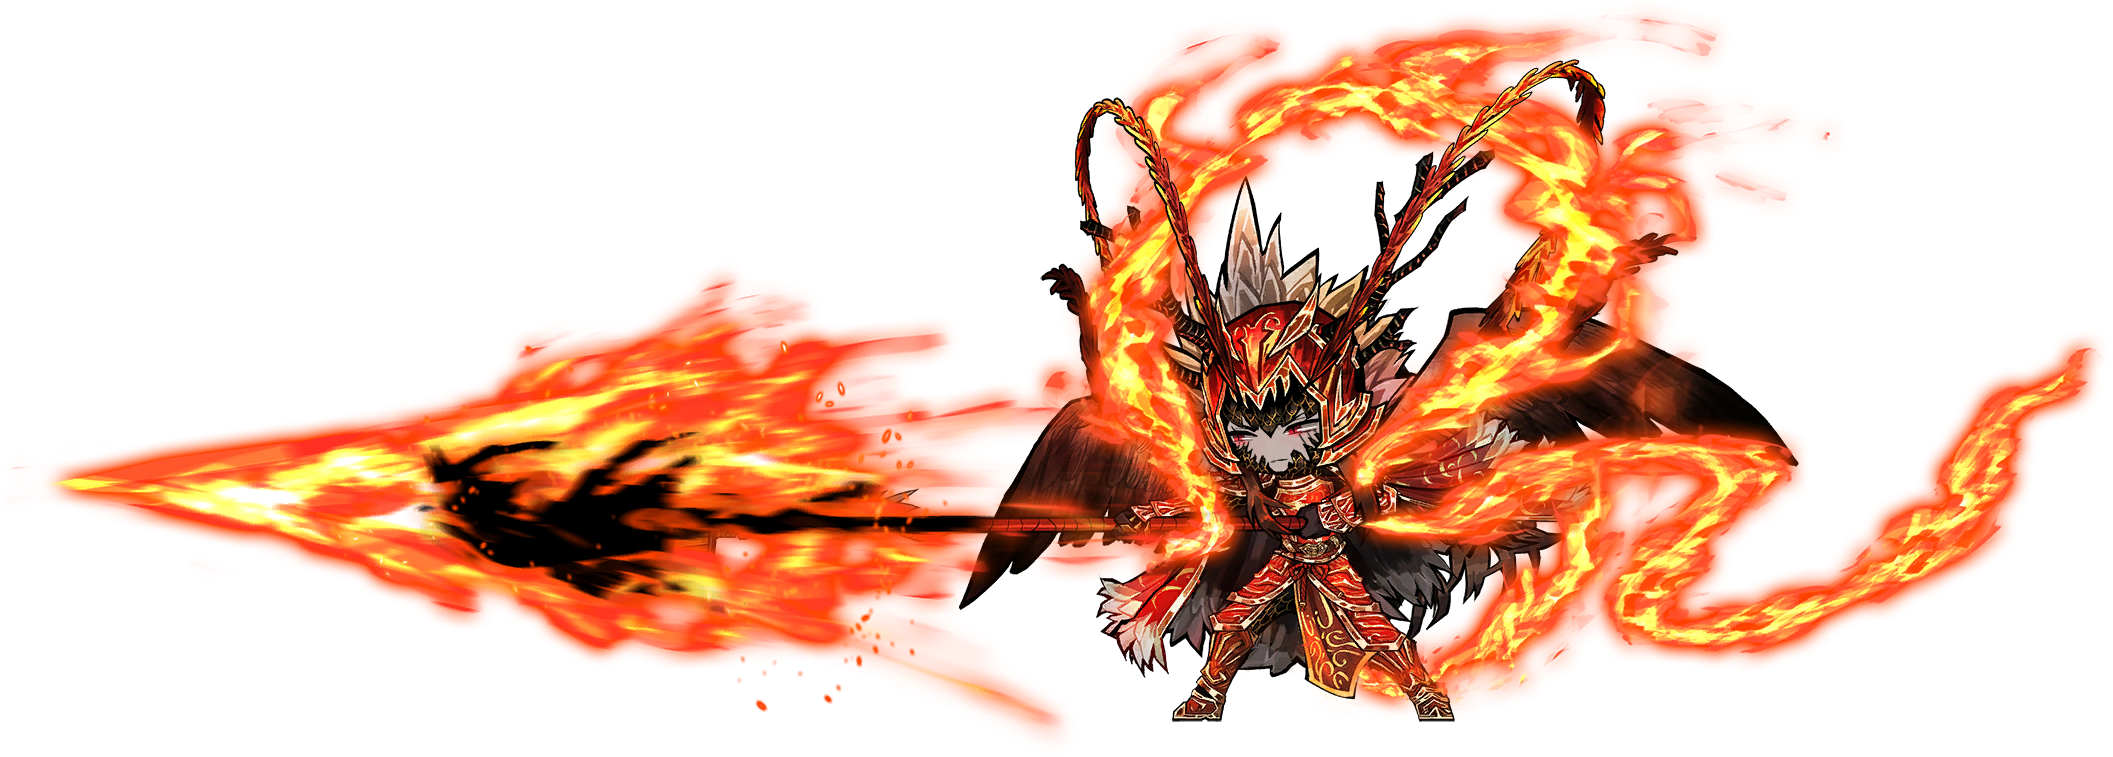
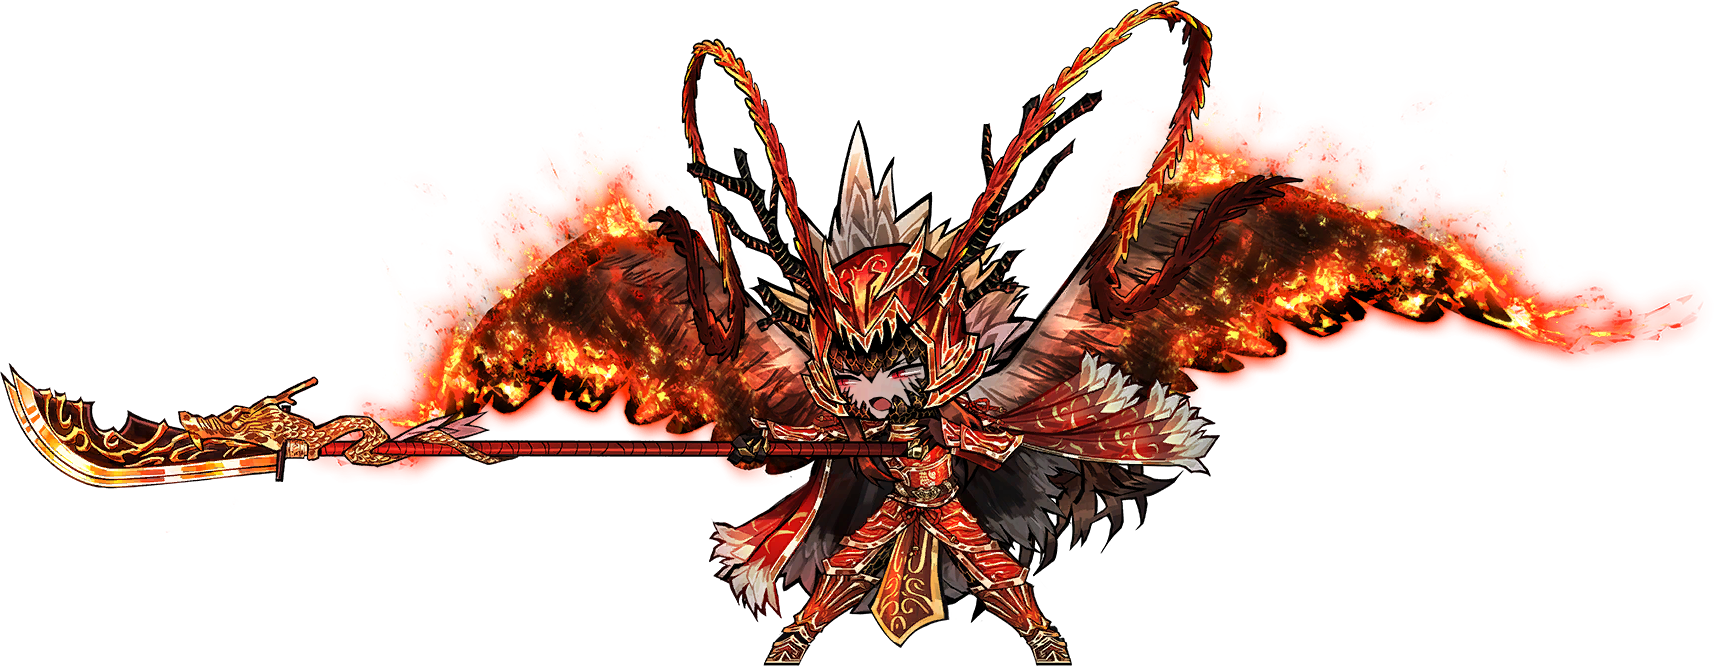
more stuff

diff --git a/src/DrawingManager.java b/src/DrawingManager.java
@@ -7,11 +7,15 @@ import java.io.IOException;
 import javax.imageio.ImageIO;
 
 public class DrawingManager {
-    private BufferedImage player1Base;
+    private BufferedImage player1BaseLeft;
+    private BufferedImage player1BaseRight;
     private BufferedImage player1Left;
     private BufferedImage player1Right;
     private BufferedImage player1Up;
     private BufferedImage p1Attack1Left;
+    private BufferedImage p1Attack1Right;
+    private BufferedImage fireballLeft;
+    private BufferedImage fireballRight;
 
     private BufferedImage player2Base;
     private BufferedImage player2Left;
@@ -20,14 +24,17 @@ public class DrawingManager {
     private BufferedImage p2Attack1;
 
     private BufferedImage noAttack;
-    private BufferedImage fireball;
 
     public DrawingManager() {
-        player1Base = loadImage("resources/images/Player_1_Xiao/XiaoBase.png");
+        player1BaseLeft = loadImage("resources/images/Player_1_Xiao/XiaoBaseLeft.png");
+        player1BaseRight = loadImage("resources/images/Player_1_Xiao/XiaoBaseRight.png");
         player1Left = loadImage("resources/images/Player_1_Xiao/XiaoLeft.png");
         player1Right = loadImage("resources/images/Player_1_Xiao/XiaoRight.png");
         player1Up = loadImage("resources/images/Player_1_Xiao/XiaoUp.png");
         p1Attack1Left = loadImage("resources/images/Player_1_Xiao/XiaoAttack1Left.png");
+        p1Attack1Right = loadImage("resources/images/Player_1_Xiao/XiaoAttack1Right.png");
+        fireballLeft = loadImage("resources/images/Player_1_Xiao/fireballLeft.png");
+        fireballRight = loadImage("resources/images/Player_1_Xiao/fireballRight.png");
 
         player2Base = loadImage("resources/images/Player_2_Roland/RolandBase.png");
         player2Left = loadImage("resources/images/Player_2_Roland/RolandLeft.png");
@@ -36,7 +43,6 @@ public class DrawingManager {
         //p2Attack1 = loadImage("resources/images/Player_2_Roland/RolandAttack1.png");
 
         noAttack = loadImage("resources/images/NoAttack.png");
-        fireball = loadImage("resources/images/fireball.png");
     }
 
     private BufferedImage loadImage(String path) {
@@ -70,12 +76,15 @@ public class DrawingManager {
             return;
         }
 
-        BufferedImage image = (playerNumber == 2) ? player2Base : player1Base; //Keeps the base form if no other form is needed
+        BufferedImage image = (playerNumber == 2) ? player2Base : player1BaseLeft; //Keeps the base form if no other form is needed
         
         if (playerNumber == 1) {
-            if (imageNum == 1) 
+            if (imageNum == 0)
             {
-                image = player1Base;
+                image = player1BaseLeft;
+            }else if (imageNum == 1) 
+            {
+                image = player1BaseRight;
             } else if (imageNum == 2) 
             {
                 image = player1Left;
@@ -88,6 +97,9 @@ public class DrawingManager {
             } else if (imageNum == 5)
             {
                 image = p1Attack1Left;
+            } else if (imageNum == 6)
+            {
+                image = p1Attack1Right;
             }
         } else if (playerNumber == 2) {
             if (imageNum == 1) 
@@ -123,7 +135,10 @@ public class DrawingManager {
         {
             if (attackNum == 1) 
             {
-                image = fireball;
+                image = fireballLeft;
+            } else if (attackNum == 2)
+            {
+                image = fireballRight;
             }
         } /*else if (playerNumber == 2) 
          {

diff --git a/src/GamePanel.java b/src/GamePanel.java
@@ -70,27 +70,25 @@ public class GamePanel extends JPanel implements ActionListener, KeyListener {
       this.player1.update(this.getWidth(), panelHeight, panelHeight - 200);
       this.player2.update(this.getWidth(), panelHeight, panelHeight - 200);
 
-      if (player1.getXVelocity() == 0 && player1.getYVelocity() == 0)
-      {
-            imageNum1 = 1;
-      }
-      if (player2.getXVelocity() == 0 && player2.getYVelocity() == 0)
-      {
-            imageNum2 = 1;
-      }
-
       if (attackNum1 == 1) {
           imageNum1 = 5;
+      } else if (attackNum1 == 2)
+      {
+          imageNum1 = 6;
       }
 
-      if (imageNum1 == 1 || imageNum1 == 4)
+      if (imageNum1 == 0 ||imageNum1 == 1 )
+      {
+            player1.setHeight(300);
+            player1.setLength(1000);
+      }if (imageNum1 == 4)
       {
             player1.setHeight(460); 
             player1.setLength(500);  
       } else if (imageNum1 == 2 || imageNum1 == 3)
       {
             player1.setLength(500);
-      } else if (imageNum1 == 5) {
+      } else if (imageNum1 == 5 || imageNum1 == 6) {
             player1.setLength(700);
       } else
       {
@@ -98,6 +96,18 @@ public class GamePanel extends JPanel implements ActionListener, KeyListener {
             player1.setLength(250);
       }
       
+
+      if (player1.getXVelocity() == 0 && player1.getYVelocity() == 0)
+      {
+            if (player1.getX() > player2.getX())
+            {
+                  imageNum1 = 0;
+            } else
+            {
+                  imageNum1 = 1;
+            }
+      }
+
       if (imageNum2 == 1)
       {
             player2.setLength(100);   
@@ -106,8 +116,10 @@ public class GamePanel extends JPanel implements ActionListener, KeyListener {
             player2.setLength(250);
       }
 
-      if (fireballCD> 0) {
-          attackP1.setAttackX(attackP1.getAttackX() - 50);
+      if (fireballCD > 0 && attackNum1 == 1) {
+          attackP1.setAttackX(attackP1.getAttackX() - 30);
+      } else if (fireballCD > 0 && attackNum1 == 2) {
+            attackP1.setAttackX(attackP1.getAttackX() + 30);
       }
 
       this.repaint();
@@ -149,7 +161,7 @@ public class GamePanel extends JPanel implements ActionListener, KeyListener {
             p1DashCD = 32; 
       }
 
-      //  testing to draw attack
+      //Fireball attack
       if (var2 == 84 && fireballCD <= 0) {
             if (player1.getXVelocity() < 0)
             {
@@ -159,8 +171,18 @@ public class GamePanel extends JPanel implements ActionListener, KeyListener {
                   attackP1.setAttackX(player1.getX() - 500);
                   player1.setXVelocity(0);
                   player1.setYVelocity(0);
+            } else if (player1.getXVelocity() > 0)
+            {
+                  attackNum1 = 2;
+                  fireballCD = 48;
+                  attackP1.setAttackY(player1.getY());
+                  attackP1.setAttackX(player1.getX() + 500);
+                  player1.setXVelocity(0);
+                  player1.setYVelocity(0);
             }
       }
+
+      //
 
       //Player 2
       if (var2 == 37) { 
